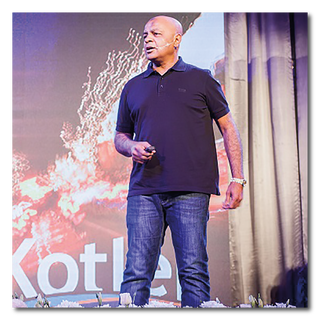
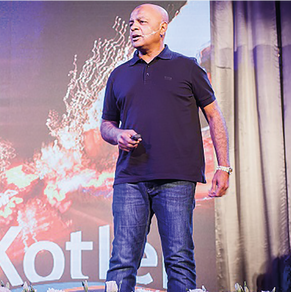
fine tuning and sponsor addition

diff --git a/src/index.html b/src/index.html
@@ -16,7 +16,7 @@
     <meta name="description" content="World Marketing Summit | 2018 India">
     <meta name="keywords" content="World Marketing Summit, 2018, India, Kotler, Philip Kotler, Award">
     <meta name="author" content="Saptarshi Basu(https://www.sapbasu.com)">
-    <meta name="theme-color" content="#ffffff" />
+    <meta name="theme-color" content="#000000" />
     <link rel="shortcut apple-touch-icon" type="image/x-icon" href="${require('./img/logo.png')}" sizes="380x367">
     <link rel="shortcut apple-touch-icon" type="image/x-icon" href="${require('./img/logo.png')}" sizes="380x367">
     <link rel="shortcut icon" type="image/x-icon" href="${require('./img/logo.png')}" sizes="380x367">
@@ -120,9 +120,8 @@
                         </div>
                     </div>
                 </div>
-                <a class="c-btn c-btn--white for-mobile" href="https://www.wms18.com">Be A Delegate</a>
+                <a class="c-btn c-btn--white for-mobile" href="https://suslence.com/signup">Be A Delegate</a>
             </div>
-
         </section>
 
     </header>
@@ -165,6 +164,18 @@
             <h2 class="sponsors__sponsor__type">Hospitality Partner</h2>
             <a href="http://www.pridehotel.com/" class="sponsors__sponsor__img">
                 <img class="sponsors__sponsor__img" src="img/Pride-Hotels-Resorts-logo.png" alt="slide 4">
+            </a>
+        </div>
+        <div class="sponsors__sponsor">
+            <h2 class="sponsors__sponsor__type">Online Media Partner</h2>
+            <a href="https://www.newsweek.com/" class="sponsors__sponsor__img">
+                <img class="sponsors__sponsor__img" src="img/Newsweek_Logo.svg" alt="slide 5">
+            </a>
+        </div>
+        <div class="sponsors__sponsor">
+            <h2 class="sponsors__sponsor__type">Event Partner</h2>
+            <a href="#" class="sponsors__sponsor__img">
+                <img class="sponsors__sponsor__img" src="img/GBM Logo.png" alt="slide 6">
             </a>
         </div>
     </section>
@@ -215,7 +226,7 @@
 
             </div>
             <div class="col-1-of-2">
-                <iframe title="Prof. Philip Kotler Invitation Video" class="youtube-container" src="https://www.youtube.com/embed/4Dki0-ukT4U?rel=0"
+                <iframe title="Prof. Philip Kotler Invitation Video" class="youtube-container" src="https://www.youtube.com/embed/m5ZUdsvfz5A"
                     frameborder="0" allow="autoplay; encrypted-media" allowfullscreen></iframe>
             </div>
         </div>

diff --git a/src/sass/custom-scss/layout/home/_header.scss b/src/sass/custom-scss/layout/home/_header.scss
@@ -62,16 +62,16 @@
         }
         &__hero-image-1 {
             @include hero-image(center);
-            background-image: linear-gradient(120deg, rgba($primary, 0.5) 0%, rgba($secondary, 0.5) 100%), url(../img/hero-image-1-mobile.jpg);
+            background-image: linear-gradient(120deg, rgba($black, 0.3) 0%, rgba($black, 0.3) 100%), url(../img/hero-image-1-mobile.jpg);
             @media only screen and (min-width: $tablet) {
-                background-image: linear-gradient(120deg, rgba($black, 0.4) 0%, rgba($black, 0.4) 100%), url(../img/hero-image-1-desktop.jpg);
+                background-image: linear-gradient(120deg, rgba($black, 0.3) 0%, rgba($black, 0.3) 100%), url(../img/hero-image-1-desktop.jpg);
             }
         }
         &__hero-image-2 {
             @include hero-image(center);
-            background-image: linear-gradient(120deg, rgba($primary, 0.5) 0%, rgba($secondary, 0.5) 100%), url(../img/hero-image-2-mobile.jpg);
+            background-image: linear-gradient(120deg, rgba($black, 0.3) 0%, rgba($black, 0.3) 100%), url(../img/hero-image-2-mobile.jpg);
             @media only screen and (min-width: $tablet) {
-                background-image: linear-gradient(120deg, rgba($black, 0.4) 0%, rgba($black, 0.4) 100%), url(../img/hero-image-2-desktop.jpg);
+                background-image: linear-gradient(120deg, rgba($black, 0.3) 0%, rgba($black, 0.3) 100%), url(../img/hero-image-2-desktop.jpg);
             }
         }
         &__jagged-effect {
@@ -181,11 +181,11 @@
         width: 100%;
     }
     &__header {
-        @include title('Lato', sans-serif, $primary, 1.5rem, 0.2rem, 700, none, 2rem, 0, left);
+        @include title('Lato', sans-serif, $primary, 1.5rem, 0.2rem, 900, none, 2rem, 0, left);
         text-transform: uppercase;
     }
     p {
-        @include title('Lato', sans-serif, $primary, 1.5rem, 0, 300, none, 1rem, 0, left);
+        @include title('Lato', sans-serif, rgba($primary, 0.5), 1.5rem, 0, 400, none, 1rem, 0, left);
         text-transform: uppercase;
         line-height: 1.2rem;
         word-spacing: 0.5rem;

diff --git a/src/sponsor.html b/src/sponsor.html
@@ -16,7 +16,7 @@
     <meta name="description" content="Sponsorship - World Marketing Summit | 2018 India">
     <meta name="keywords" content="Sponsorship, World Marketing Summit, 2018, India, Kotler, Philip Kotler, Award">
     <meta name="author" content="Saptarshi Basu(https://www.sapbasu.com)">
-    <meta name="theme-color" content="#3e5902" />
+    <meta name="theme-color" content="#000000" />
     <link rel="shortcut apple-touch-icon" type="image/x-icon" href="${require('./img/logo.png')}" sizes="380x367">
     <link rel="shortcut apple-touch-icon" type="image/x-icon" href="${require('./img/logo.png')}" sizes="380x367">
     <link rel="shortcut icon" type="image/x-icon" href="${require('./img/logo.png')}" sizes="380x367">
@@ -439,6 +439,18 @@
             <h2 class="existing-sponsors__sponsor__header">Hospitality Partner</h2>
             <a href="http://www.pridehotel.com/" class="existing-sponsors__sponsor__logo">
                 <img class="existing-sponsors__sponsor__logo" src="img/Pride-Hotels-Resorts-logo.png"></img>
+            </a>
+        </div>
+        <div class="existing-sponsors__sponsor">
+            <h2 class="existing-sponsors__sponsor__header">Online Media Partner</h2>
+            <a href="https://www.newsweek.com/" class="existing-sponsors__sponsor__logo">
+                <img class="existing-sponsors__sponsor__logo" src="img/Newsweek_Logo.svg"></img>
+            </a>
+        </div>
+        <div class="existing-sponsors__sponsor">
+            <h2 class="existing-sponsors__sponsor__header">Event Partner</h2>
+            <a href="#" class="existing-sponsors__sponsor__logo">
+                <img class="existing-sponsors__sponsor__logo" src="img/GBM Logo.png"></img>
             </a>
         </div>
     </section>

diff --git a/src/award.html b/src/award.html
@@ -16,7 +16,7 @@
     <meta name="description" content="Sponsorship - World Marketing Summit | 2018 India">
     <meta name="keywords" content="Sponsorship, World Marketing Summit, 2018, India, Kotler, Philip Kotler, Award">
     <meta name="author" content="Saptarshi Basu(https://www.sapbasu.com)">
-    <meta name="theme-color" content="#3e5902" />
+    <meta name="theme-color" content="#000000" />
     <link rel="shortcut apple-touch-icon" type="image/x-icon" href="${require('./img/logo.png')}" sizes="380x367">
     <link rel="shortcut apple-touch-icon" type="image/x-icon" href="${require('./img/logo.png')}" sizes="380x367">
     <script type="text/javascript" src="https://cdnjs.cloudflare.com/ajax/libs/pace/1.0.2/pace.min.js"></script>

diff --git a/src/medal.html b/src/medal.html
@@ -16,7 +16,7 @@
     <meta name="description" content="Sponsorship - World Marketing Summit | 2018 India">
     <meta name="keywords" content="Sponsorship, World Marketing Summit, 2018, India, Kotler, Philip Kotler, Award">
     <meta name="author" content="Saptarshi Basu(https://www.sapbasu.com)">
-    <meta name="theme-color" content="#3e5902" />
+    <meta name="theme-color" content="#000000" />
     <link rel="shortcut apple-touch-icon" type="image/x-icon" href="${require('./img/logo.png')}" sizes="380x367">
     <link rel="shortcut apple-touch-icon" type="image/x-icon" href="${require('./img/logo.png')}" sizes="380x367">
     <link rel="shortcut icon" type="image/x-icon" href="${require('./img/logo.png')}" sizes="380x367">

diff --git a/src/speakers.html b/src/speakers.html
@@ -16,7 +16,7 @@
     <meta name="description" content="Sponsorship - World Marketing Summit | 2018 India">
     <meta name="keywords" content="Sponsorship, World Marketing Summit, 2018, India, Kotler, Philip Kotler, Award">
     <meta name="author" content="Saptarshi Basu(https://www.sapbasu.com)">
-    <meta name="theme-color" content="#3e5902" />
+    <meta name="theme-color" content="#000000" />
     <link rel="shortcut apple-touch-icon" type="image/x-icon" href="${require('./img/logo.png')}" sizes="380x367">
     <link rel="shortcut apple-touch-icon" type="image/x-icon" href="${require('./img/logo.png')}" sizes="380x367">
     <link rel="shortcut icon" type="image/x-icon" href="${require('./img/logo.png')}" sizes="380x367">

diff --git a/src/wms.html b/src/wms.html
@@ -16,7 +16,7 @@
     <meta name="description" content="Sponsorship - World Marketing Summit | 2018 India">
     <meta name="keywords" content="Sponsorship, World Marketing Summit, 2018, India, Kotler, Philip Kotler, Award">
     <meta name="author" content="Saptarshi Basu(https://www.sapbasu.com)">
-    <meta name="theme-color" content="#3e5902" />
+    <meta name="theme-color" content="#000000" />
     <link rel="shortcut apple-touch-icon" type="image/x-icon" href="${require('./img/logo.png')}" sizes="380x367">
     <link rel="shortcut apple-touch-icon" type="image/x-icon" href="${require('./img/logo.png')}" sizes="380x367">
     <link rel="shortcut icon" type="image/x-icon" href="${require('./img/logo.png')}" sizes="380x367">

diff --git a/src/error.html b/src/error.html
@@ -16,7 +16,7 @@
     <meta name="description" content="World Marketing Summit | 2018 India">
     <meta name="keywords" content="World Marketing Summit, 2018, India, Kotler, Philip Kotler, Award">
     <meta name="author" content="Saptarshi Basu(https://www.sapbasu.com)">
-    <meta name="theme-color" content="#3e5902" />
+    <meta name="theme-color" content="#000000" />
     <link rel="shortcut apple-touch-icon" type="image/x-icon" href="${require('./img/logo.png')}" sizes="380x367">
     <link rel="shortcut apple-touch-icon" type="image/x-icon" href="${require('./img/logo.png')}" sizes="380x367">
     <script type="text/javascript" src="https://cdnjs.cloudflare.com/ajax/libs/pace/1.0.2/pace.min.js"></script>

diff --git a/src/sass/custom-scss/layout/home/_speaker.scss b/src/sass/custom-scss/layout/home/_speaker.scss
@@ -30,10 +30,18 @@
     @media only screen and (min-width: $tablet) {
         padding: 4rem 0 5rem 0;
     }
+    figure {
+        display: flex;
+        justify-content: center;
+        @media only screen and (min-width: $tablet) {
+            display: inherit;
+        }
+    }
     figure>img {
         width: 100%;
         max-width: 30rem;
         height: 30rem;
+        box-shadow: 5px 5px 5px rgba(0, 0, 0, 0.7);
     }
     h2 {
         @include title('Lato', sans-serif, $primary, 2rem, 0, 900, none, 0, 0, left);

diff --git a/src/sass/custom-scss/base/_utils.scss b/src/sass/custom-scss/base/_utils.scss
@@ -61,7 +61,7 @@
         text-transform: uppercase;
         letter-spacing: 0.3rem;
         text-decoration: none;
-        padding: 0.5rem 2rem;
+        padding: 0.5rem 3rem;
         display: inline-block;
         border-radius: 10rem;
         transition: all .2s;
@@ -73,6 +73,7 @@
         cursor: pointer;
         margin: 2rem 0;
         line-height: 4rem;
+        font-weight: 700;
     }
     
     &:hover {

diff --git a/src/sass/custom-scss/abstracts/_variables.scss b/src/sass/custom-scss/abstracts/_variables.scss
@@ -15,7 +15,7 @@ $line-height-base: 1.7;
 
 
 $primary: #022601;
-$secondary: #f2811d;
+$secondary: #ff8000;
 
 $india-green: #3e5902;
 $laccent: #f2b035;
